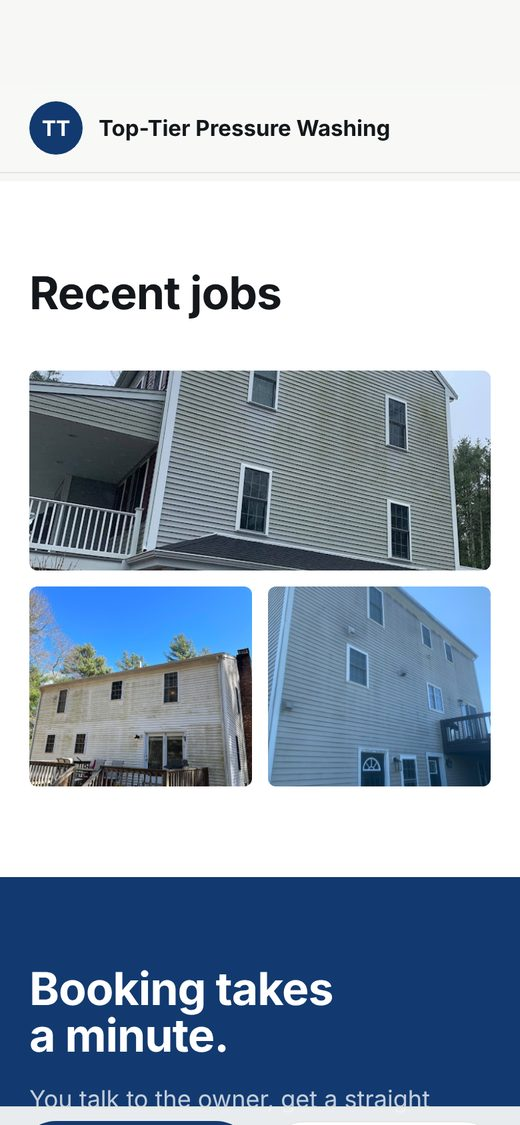
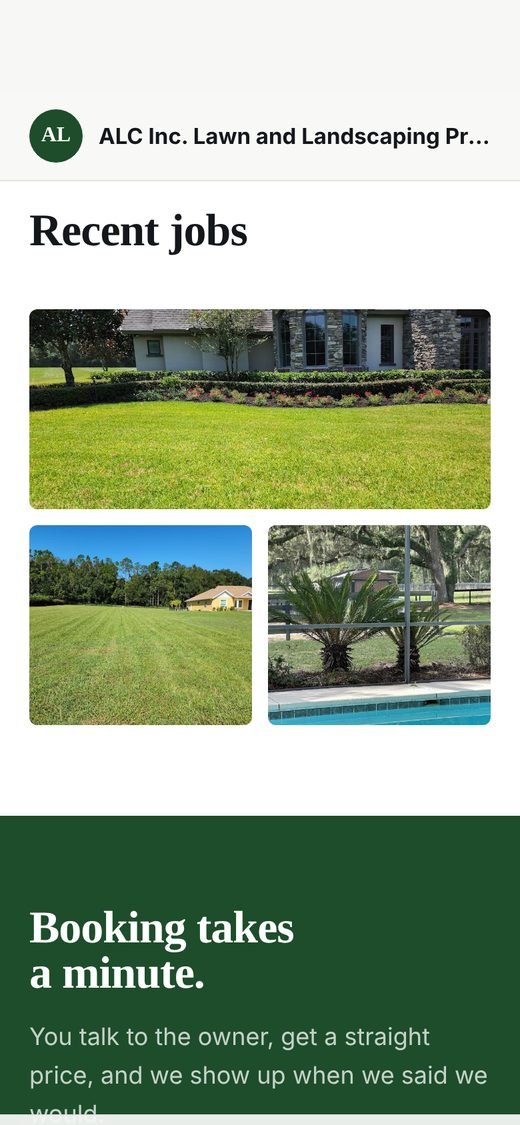
Publish all previews

diff --git a/index.html b/index.html
@@ -256,19 +256,19 @@ footer{padding-block:28px; font-size:14px; color:var(--muted); display:flex; jus
 <section class="work">
   <div class="wrap work-grid">
     <div class="phones">
-      <div class="phone"><img alt="Sample site for Top-Tier Pressure Washing on a phone, with their job photo and 5.0 Google rating" src="/work-1.jpg"></div>
-      <div class="phone b"><img alt="Recent jobs photo gallery on the Top-Tier Pressure Washing sample site" src="/work-2.jpg" loading="lazy"></div>
+      <div class="phone"><img alt="Sample site for ALC Inc. Lawn and Landscaping on a phone, with their job photo and 5.0 Google rating" src="/work-1.jpg?v=2"></div>
+      <div class="phone b"><img alt="Recent jobs photo gallery on the ALC Inc. Lawn and Landscaping sample site" src="/work-2.jpg?v=2" loading="lazy"></div>
     </div>
     <div>
       <div class="label">Sample build</div>
       <h2 style="margin-top:14px">Their photos. Their reviews. Built before they pay anything.</h2>
-      <p style="margin-top:18px; color:var(--muted); font-size:18.5px; max-width:44ch">Top-Tier Pressure Washing in Plymouth has 43 five-star Google reviews and no website. So I built them one from their own job photos and reviews and sent it over. Every business I reach out to gets the same.</p>
+      <p style="margin-top:18px; color:var(--muted); font-size:18.5px; max-width:44ch">ALC Inc. Lawn and Landscaping in Ocala, Florida has 332 five-star Google reviews and no website. So I built them one from their own job photos and reviews and sent it over. Every business I reach out to gets the same.</p>
       <ul>
         <li><svg width="18" height="18" viewBox="0 0 24 24" fill="none" stroke="currentColor" stroke-width="2.6" aria-hidden="true"><path d="m5 12 5 5L20 7"/></svg><span>Their best job photo fills the screen the moment the page opens</span></li>
         <li><svg width="18" height="18" viewBox="0 0 24 24" fill="none" stroke="currentColor" stroke-width="2.6" aria-hidden="true"><path d="m5 12 5 5L20 7"/></svg><span>Their Google rating stamped right on it</span></li>
         <li><svg width="18" height="18" viewBox="0 0 24 24" fill="none" stroke="currentColor" stroke-width="2.6" aria-hidden="true"><path d="m5 12 5 5L20 7"/></svg><span>A call button that stays at the bottom on phones</span></li>
       </ul>
-      <a style="display:inline-block;margin-top:24px;font-weight:700;color:var(--pen)" href="/top-tier-pressure-washing/" target="_blank" rel="noopener">See the Top-Tier sample live</a>
+      <a style="display:inline-block;margin-top:24px;font-weight:700;color:var(--pen)" href="/alc-inc-lawn-and-landscaping-professionals/" target="_blank" rel="noopener">See the ALC sample live</a>
     </div>
   </div>
 </section>
